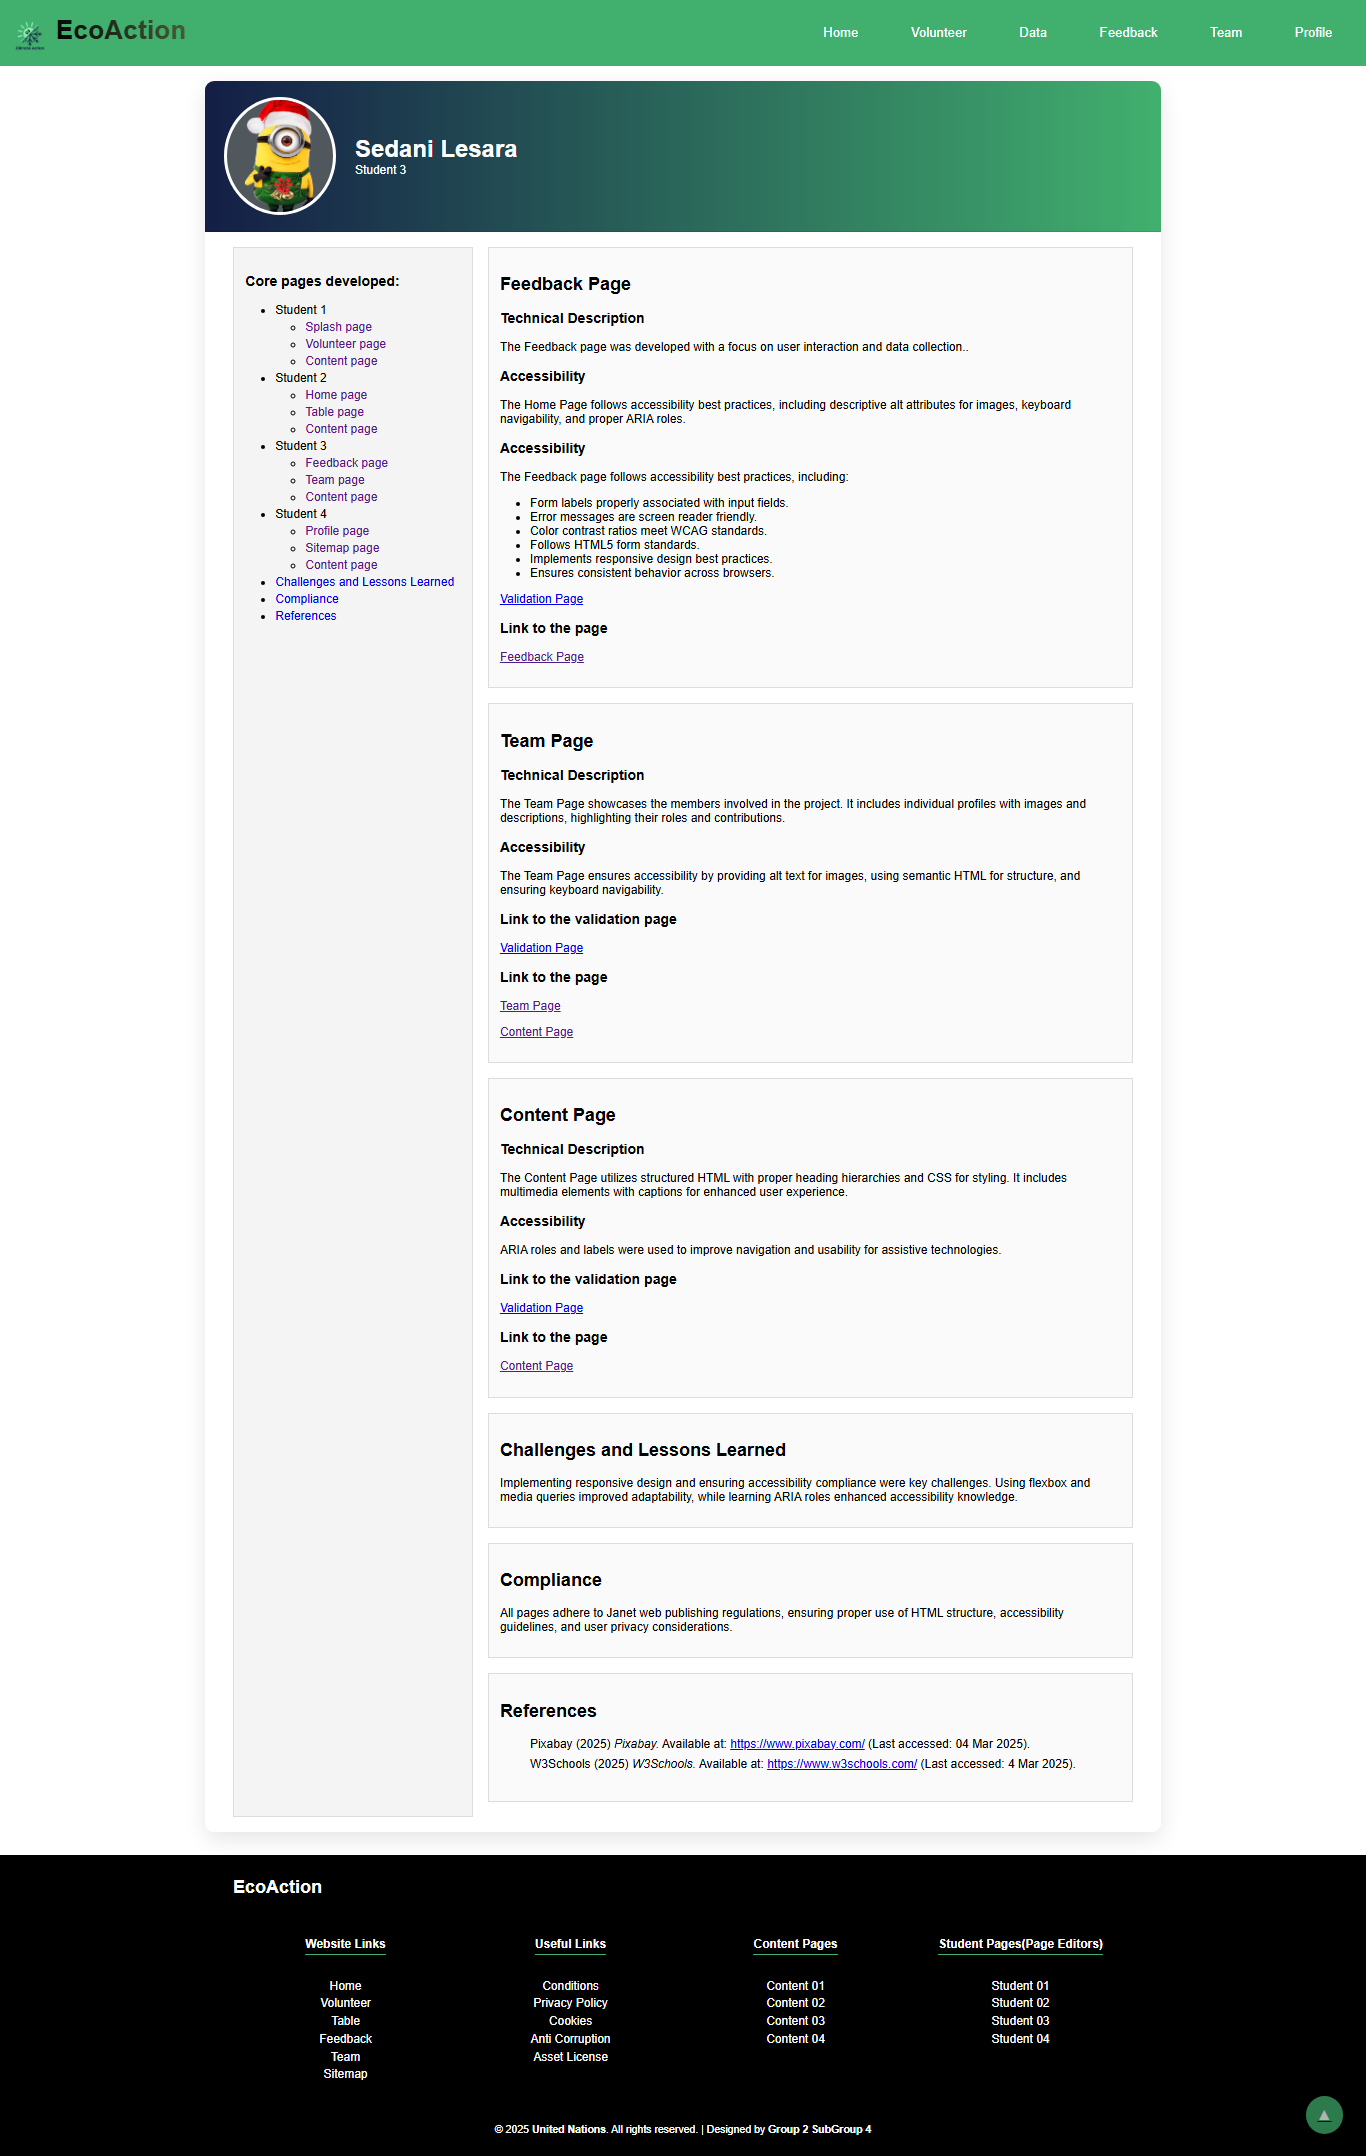
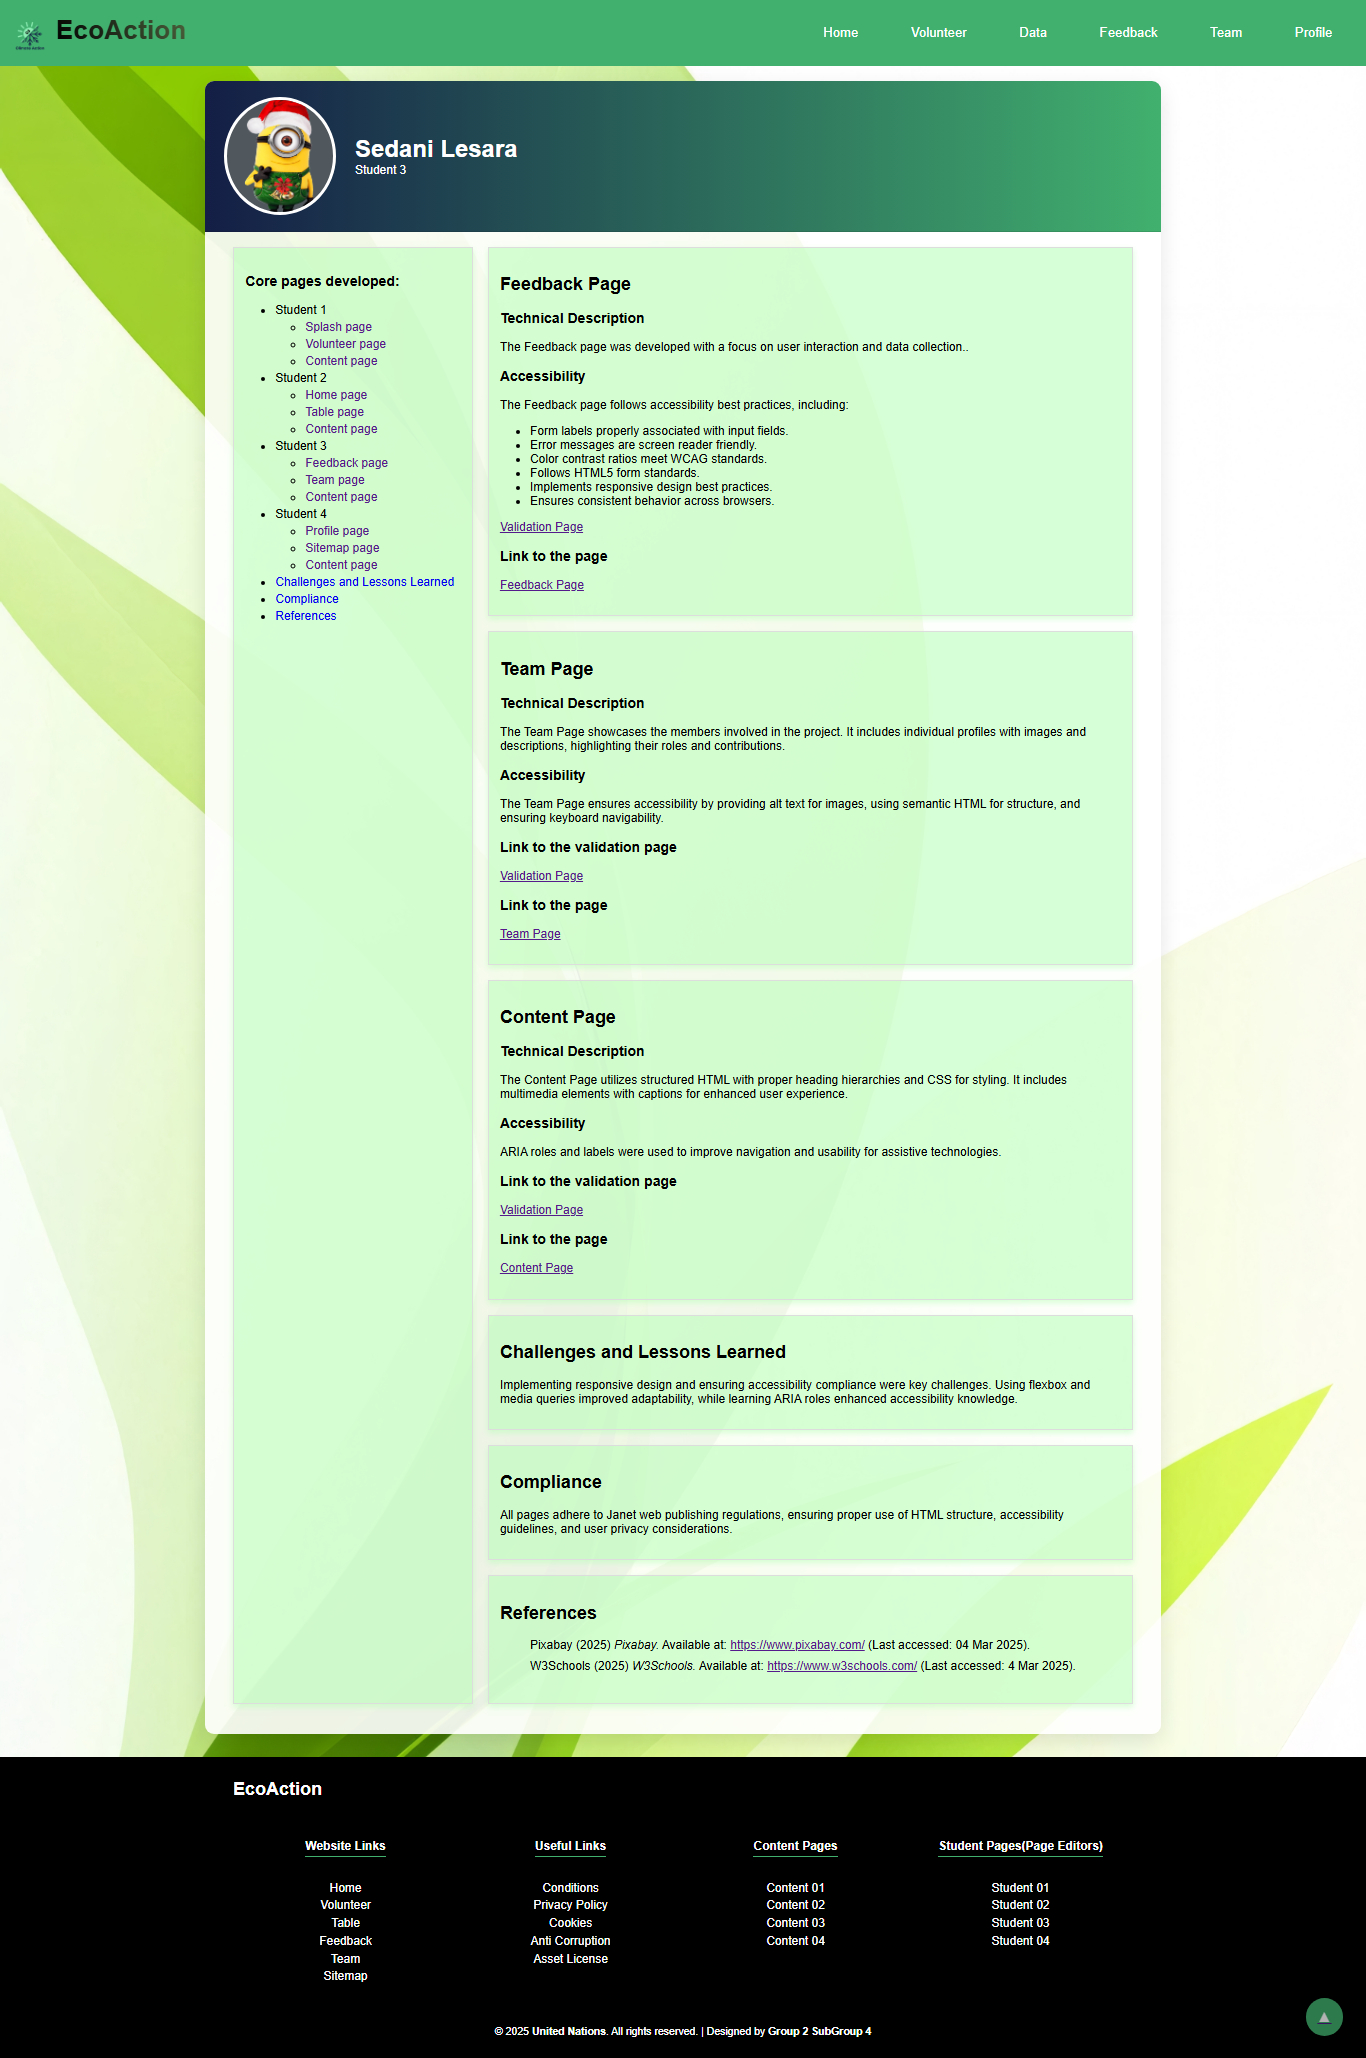
finalizing

diff --git a/Student_3/content_ST3.html b/Student_3/content_ST3.html
@@ -27,57 +27,81 @@
     </header>
 
     <main>
+
+        <!--Quick Links Section-->
+        <div class="quick-links-container">
+            <h2 class="quick-links-title">Quick Links</h2>
+            <ul class="quick-links">
+                <li><a href="#importance">Why is Wildlife Conservation Important?</a></li>
+                <li><a href="#threats">Major Threats to Wildlife</a></li>
+                <li><a href="#efforts">Conservation Efforts Around the World</a></li>
+                <li><a href="#help">How You Can Help</a></li>
+                <li><a href="#conclusion">Conclusion</a></li>
+            </ul>
+        </div>
+
+        <!--Main Content-->
+        <div class="image-holder">
+            <img src="../images/content_ST3/Graphic.png" alt="Graphic">
+        </div>
         <section class="container">
             <h1>Wildlife Conservation</h1>
             <p>Wildlife conservation is essential for maintaining biodiversity and ensuring the survival of countless species. As human activities continue to impact natural habitats, conservation efforts help protect ecosystems, prevent extinction, and promote sustainable coexistence.</p>
-            <img src="../images/content_ST3/Wildlife Conservation1.jpg" alt="Wildlife Conservation" class="image">
         </section>
     
-        <section class="container">
+        <section class="container" id="importance">
             <h2>Why is Wildlife Conservation Important?</h2>
             <ul>
-                <p><strong>Maintains Ecosystem Balance:</strong> Every species plays a role in the food chain and ecosystem functions.</p>
-                <p><strong>Prevents Extinction:</strong> Many species are endangered due to habitat loss, poaching, and climate change.</p>
-                <p><strong>Supports Human Livelihoods:</strong> Many communities depend on wildlife for tourism, research, and resources.</p>
-                <p><strong>Preserves Genetic Diversity:</strong> A diverse gene pool strengthens species adaptability to environmental changes.</p>
+                <li><strong>Maintains Ecosystem Balance:</strong> Every species plays a role in the food chain and ecosystem functions.</li>
+                <li><strong>Prevents Extinction:</strong> Many species are endangered due to habitat loss, poaching, and climate change.</li>
+                <li><strong>Supports Human Livelihoods:</strong> Many communities depend on wildlife for tourism, research, and resources.</li>
+                <li><strong>Preserves Genetic Diversity:</strong> A diverse gene pool strengthens species adaptability to environmental changes.</li>
             </ul>
+            <div class="image-placeholder">
+                <img src="../images/content_ST3/Importance_of_Wildlife.jpg" alt="Importance of Wildlife Conservation">
+            </div>
         </section>
     
-        <section class="container">
+        <section class="container" id="threats">
             <h2>Major Threats to Wildlife</h2>
             <ul>
-                <p><strong>Deforestation & Habitat Loss:</strong> Urbanization and agriculture destroy natural habitats.</p>
-                <p><strong>Poaching & Illegal Wildlife Trade:</strong> Animals are hunted for fur, horns, and other body parts.</p>
-                <p><strong>Climate Change:</strong> Rising temperatures and extreme weather impact species' survival.</p>
-                <p><strong>Pollution:</strong> Plastic waste, chemicals, and oil spills harm wildlife.</p>
+                <li><strong>Deforestation & Habitat Loss:</strong> Urbanization and agriculture destroy natural habitats.</li>
+                <li><strong>Poaching & Illegal Wildlife Trade:</strong> Animals are hunted for fur, horns, and other body parts.</li>
+                <li><strong>Climate Change:</strong> Rising temperatures and extreme weather impact species' survival.</li>
+                <li><strong>Pollution:</strong> Plastic waste, chemicals, and oil spills harm wildlife.</li>
             </ul>
-            <img src="../images/content_ST3/WIldlife Conservation2.jpg" alt="Threats to Wildlife" class="image">
+            <div class="image-placeholder">
+            <img src="../images/content_ST3/Threats_to_Wildlife.jpg" alt="Major Threats to Wildlife">
+            </div>
         </section>
     
-        <section class="container">
+        <section class="container" id="efforts">
             <h2>Conservation Efforts Around the World</h2>
             <ul>
-                <p><strong>Protected Areas & National Parks:</strong> Governments establish reserves to protect habitats.</p>
-                <p><strong>Wildlife Rehabilitation & Rescue Centers:</strong> Organizations care for injured and endangered animals.</p>
-                <p><strong>Anti-Poaching Laws & Regulations:</strong> Stricter laws help prevent illegal hunting and trade.</p>
-                <p><strong>Community Involvement & Ecotourism:</strong> Sustainable tourism supports local communities and conservation.</p>
-                <p><strong>Species Reintroduction Programs:</strong> Endangered species are bred in captivity and released into the wild.</p>
+                <li><strong>Protected Areas & National Parks:</strong> Governments establish reserves to protect habitats.</li>
+                <li><strong>Wildlife Rehabilitation & Rescue Centers:</strong> Organizations care for injured and endangered animals.</li>
+                <li><strong>Anti-Poaching Laws & Regulations:</strong> Stricter laws help prevent illegal hunting and trade.</li>
+                <li><strong>Community Involvement & Ecotourism:</strong> Sustainable tourism supports local communities and conservation.</li>
+                <li><strong>Species Reintroduction Programs:</strong> Endangered species are bred in captivity and released into the wild.</li>
             </ul>
         </section>
     
-        <section class="container">
+        <section class="container" id="help">
             <h2>How You Can Help</h2>
             <ul>
-                <p><strong>Support Conservation Organizations:</strong> Donate to or volunteer with wildlife protection groups.</p>
-                <p><strong>Reduce Your Carbon Footprint:</strong> Use sustainable products and minimize waste.</p>
-                <p><strong>Avoid Buying Wildlife Products:</strong> Say no to products made from endangered species.</p>
-                <p><strong>Spread Awareness:</strong> Educate others about the importance of conservation.</p>
+                <li><strong>Support Conservation Organizations:</strong> Donate to or volunteer with wildlife protection groups.</li>
+                <li><strong>Reduce Your Carbon Footprint:</strong> Use sustainable products and minimize waste.</li>
+                <li><strong>Avoid Buying Wildlife Products:</strong> Say no to products made from endangered species.</li>
+                <li><strong>Spread Awareness:</strong> Educate others about the importance of conservation.</li>
             </ul>
         </section>
     
-        <section class="container">
+        <section class="container" id="conclusion">
             <h2>Conclusion</h2>
             <p>Wildlife conservation is a shared responsibility. By taking action, supporting organizations, and spreading awareness, we can help preserve biodiversity for future generations.</p>
+            <div class="image-placeholder">
+                <img src="../images/content_ST3/Wildlife_Conservation.jpg" alt="Wildlife Conservation">
+            </div>
         </section>
     </main>
 
@@ -101,6 +125,7 @@
                         <li><a href="../Student_4/sitemap.html">Sitemap</a></li>
                     </ul>
                 </div>
+
                 <div class="link-section">
                     <h4>Useful Links</h4>
                     <ul>
@@ -111,6 +136,7 @@
                         <li><a href="https://www.globalgoals.org/asset-licence/">Asset License</a></li>
                     </ul>
                 </div>
+
                 <div class="link-section">
                     <h4>Content Pages</h4>
                     <ul>
@@ -120,6 +146,7 @@
                         <li><a href="../Student_4/content_ST4.html">Content 04</a></li>
                     </ul>
                 </div>
+
                 <div class="link-section">
                     <h4>Student Pages(Page Editors)</h4>
                     <ul>
@@ -136,3 +163,5 @@
             <p>&copy; 2025 <b>United Nations</b>. All rights reserved. | Designed by <b>Group 2 SubGroup 4</b></p>
         </div>
     </footer>
+</body>
+</html>

diff --git a/css/content_ST3.css b/css/content_ST3.css
@@ -10,6 +10,15 @@
     line-height: 1.6;
 }
 
+/* Paragraph Styling */
+.container p{
+    text-align: center;
+    font-size: 1.2em;
+    color: #192735;
+    margin-bottom: 15px;
+    font-weight: 500;
+}
+
 /* Header Styling */
 .container h1 {
     font-size: 2.5em;
@@ -39,21 +48,149 @@
     padding-bottom: 5px;
 }
 
-/* Paragraph Styling */
-.container p {
-    text-align: center;  /* Center the text */
-    font-size: 1.2em;
-    color: #192735;
+/* List Item Styling */
+.container ul{
+    list-style-type: none;
+    padding: 0;
+    margin: 0;
+}
+
+.container ul li{
+    text-align: center;
+    font-size: 1.1em;
+    color: #182f45;
+    margin-top: 10px;
+    margin-bottom: 10px;
+    line-height: 1.6;
+}
+
+.container ul li strong{
+    color: #2c3e50;
+}
+
+/* Quick Links Styling */
+.quick-links-container{
+    padding: 20px;
+    max-width: 100%;
+    text-align: center;
+    overflow-x: auto;
+    white-space: nowrap;
+}
+
+.quick-links-title {
+    font-size: 35px;
+    color: #f8faf8;
     margin-bottom: 15px;
 }
 
-/* Image Styling */
-.container .image{
-    width: 100%;
-    max-width: 600px;
-    height: auto;
+.quick-links {
+    list-style: none;
+    padding: 0;
+    margin: 0;
+    display: flex;
+    justify-content: center;
+    flex-wrap: wrap;
+    top: 120px;
+}
+
+.quick-links li {
+    margin: 5px;
+}
+
+.quick-links a {
     display: block;
-    margin: 20px auto;
-    border-radius: 12px;
-    box-shadow: 0 4px 10px rgba(0, 0, 0, 0.2);
+    padding: 10px 15px;
+    text-decoration: none;
+    color: #ffffff;
+    background: rgb(77, 77, 77);
+    border-radius: 5px;
+    transition: all 0.3s ease;
+    font-size: 15px;
+}
+
+.quick-links a:hover {
+    background: #64eb6d;
+    color: #000000;
+    transform: scale(1.05);
+}
+
+/* Footer Styles */
+.footer{
+    background-color: #000000;
+    color: white;
+    padding-top: 30px;
+    font-size: 16px;
+    text-align: center;
+}
+
+#footer-text {
+    color: white;
+}
+
+.footer-container {
+    display: flex;
+    flex-wrap: wrap;
+    justify-content: space-between;
+    max-width: 1200px;
+    margin: 0 auto;
+    padding: 0 20px;
+}
+
+.footer-links {
+    display: flex;
+    justify-content: space-around;
+    flex-wrap: wrap;
+    width: 100%;
+}
+
+.link-section {
+    flex: 1 1 200px;
+    margin: 10px;
+}
+
+.link-section h4 {
+    border-bottom: 2px solid #41b06e;
+    display: inline-block;
+    padding-bottom: 5px;
+    margin-bottom: 15px;
+}
+
+.link-section ul {
+    list-style: none;
+    padding: 0;
+}
+
+.link-section ul li {
+    margin: 5px 0;
+}
+
+.link-section ul li a {
+    color: white;
+    text-decoration: none;
+    transition: color 0.3s ease;
+}
+
+.link-section ul li a:hover {
+    color: #41b06e;
+}
+
+.footer-bottom {
+    background-color: #000000;
+    padding: 15px 0;
+    font-size: 14px;
+}
+
+/* Image Styling */
+.image-holder img {
+    width: 40%;
+    height: auto;
+    transition: opacity 0.3s ease;
+}
+
+.image-placeholder img{
+    width: 60%;
+    height: auto;
+    border-radius: 10px;
+    margin: 20px 0;
+    border: 2px solid #15773c;
 }

diff --git a/Student_3/PG.html b/Student_3/PG.html
@@ -25,16 +25,7 @@
         </nav>
     </header>
         
-    <div class="profile-card">
-        <div class="profile-section profile-info">
-            <div class="profile-avatar">
-                <img src="../images/pageEditor/student3.png" alt="Student Avatar">
-            </div>
-            <div class="profile-details">
-                <h2>Sedani Lesara</h2>
-                <div class="role-badge">Student 3</div>
-            </div>
-        </div>
+
 
     <div class="container">
         <main>
@@ -42,6 +33,8 @@
                 <h2 id="Feedback">Feedback Page</h2>
                 <h3>Technical Description</h3>
                 <p>The Feedback page was developed with a focus on user interaction and data collection..</p>
+                <h3>Accessibility</h3>
+                <p>The Home Page follows accessibility best practices, including descriptive alt attributes for images, keyboard navigability, and proper ARIA roles.</p>
                 <h3>Accessibility</h3>
                 <p>The Feedback page follows accessibility best practices, including:</p>
                 <ul>

diff --git a/Student_2/page_editor_ST2.html b/Student_2/page_editor_ST2.html
@@ -85,6 +85,7 @@
                             <li>Pixabay (2025) <i>Free Images and Videos</i>. Available at: <a href="https://pixabay.com/">https://pixabay.com/</a></li>
                             <li>W3Schools (2025) <i>HTML and CSS Tutorials</i>. Available at: <a href="https://www.w3schools.com/">https://www.w3schools.com/</a></li>
                             <li>Stack Overflow (2025) <i>Developer Community</i>. Available at: <a href="https://stackoverflow.com/">https://stackoverflow.com/</a></li>
+                            <li>Freepik (2025) <i>Free Vectors, Stock Photos & PSD</i>. Available at: <a href="https://www.freepik.com/">https://www.freepik.com/</a></li>
                         </ul>
                     </section>
                     <a href="#" class="go-to-top" aria-label="Go to top"></a>

diff --git a/css/pageEditor_validator.css b/css/pageEditor_validator.css
@@ -41,6 +41,8 @@ body {
     font-family: Arial, sans-serif;
     margin: 0;
     padding: 0;
+    background: url('../images/editor-background.jpg') repeat-y center center fixed;
+    background-size: 100%; 
 }
 
 .container {
@@ -64,9 +66,16 @@ section {
     margin-bottom: 20px;
     padding: 15px;
     border: 1px solid #ddd;
-    background-color: #fafafa;
+    background-color: rgba(176, 255, 176, 0.5); /* Light hint of green with transparency */
 }
 
+section, aside {
+    margin-bottom: 20px;
+    padding: 15px;
+    border: 1px solid #ddd;
+    background-color: rgba(176, 255, 176, 0.5); /* Light hint of green with transparency */
+    box-shadow: 0 4px 8px rgba(176, 255, 176, 0.5); /* Matching light hint of green shadow */
+}
 
 .ref li{
     list-style: none;
